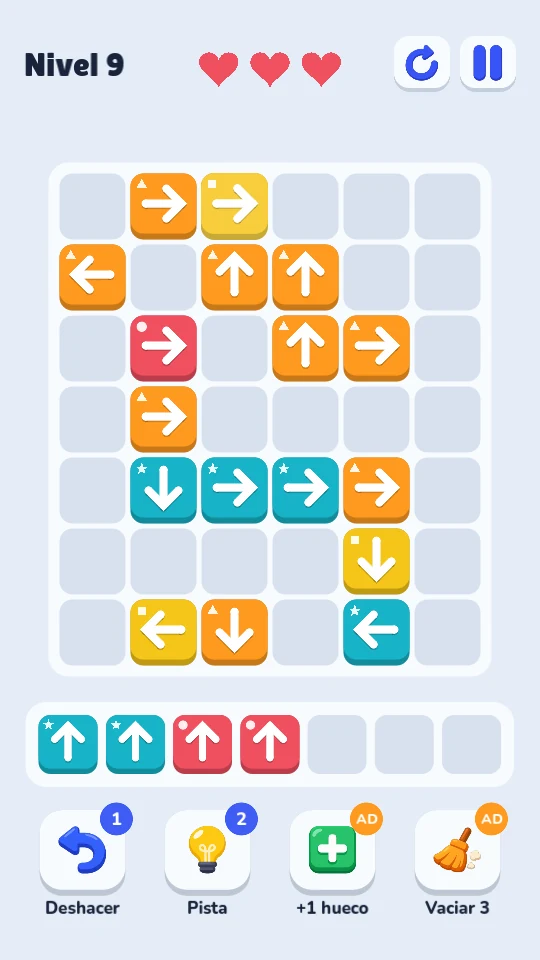
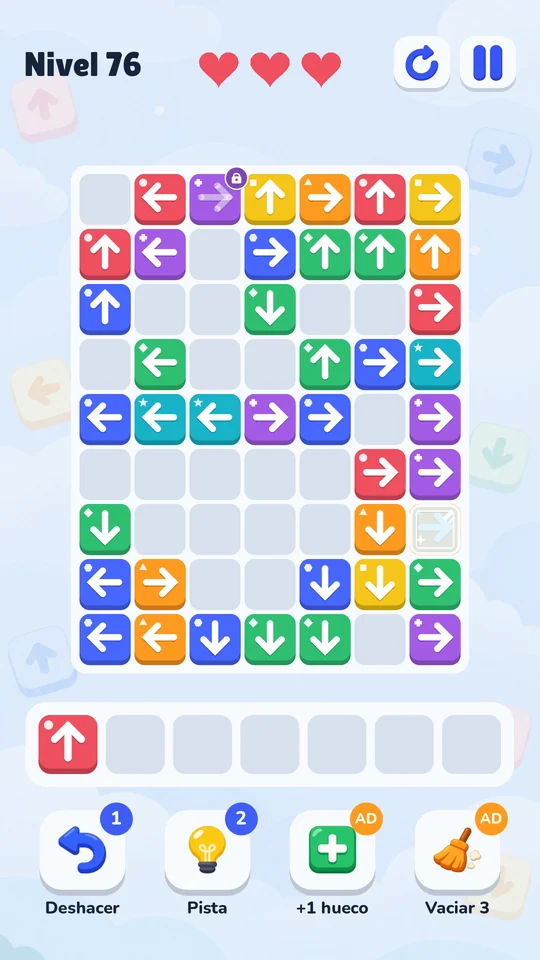
Flechazo 1.0: ya disponible en Google Play
- Página de Flechazo: estado «Ya disponible · versión 1.0», botón de Google Play en el
  idioma del visitante, lista de lo que trae la 1.0 y 4 capturas nuevas por idioma
  (partida con hielo y candado, contrarreloj, logros y cofre).
- Portada: Flechazo como juego publicado con su enlace a Google Play, 3 juegos en
  Google Play, 1000 niveles y entrada nueva en el diario.

diff --git a/index.html b/index.html
@@ -200,8 +200,8 @@
 
   <div class="wrap">
     <div class="stats">
-      <div><b>2</b><span data-i18n="stat_live">games on Google Play</span></div>
-      <div><b>1</b><span data-i18n="stat_next">on the way: Flechazo</span></div>
+      <div><b>3</b><span data-i18n="stat_live">games on Google Play</span></div>
+      <div><b>1000</b><span data-i18n="stat_next">levels in Flechazo</span></div>
       <div><b>4</b><span data-i18n="stat_langs">languages in every game</span></div>
       <div><b>0</b><span data-i18n="stat_accounts">accounts to create</span></div>
     </div>
@@ -241,16 +241,17 @@
         </article>
 
         <article class="game blue">
-          <span class="badge dev" data-i18n="badge_dev">In development</span>
+          <span class="badge" data-i18n="badge_live">Out now</span>
           <a class="cover" id="link-flechazo" href="flechazo/"><img src="flechazo/hero.webp" width="1600" height="800" alt=""></a>
           <div class="gbody">
             <img class="gicon" src="flechazo/icon.webp" width="84" height="84" alt="">
             <h3>Flechazo</h3>
             <p data-i18n="flechazo_pitch">Free the arrows in the right order and match them in threes by colour before the tray fills up.</p>
             <div class="chips" data-i18n-chips="flechazo_chips"></div>
-            <p class="note" data-i18n="flechazo_note">Closed test on Google Play very soon.</p>
+            <p class="note" data-i18n="flechazo_note">Version 1.0: Time Attack mode, 294 achievements and 1000 levels.</p>
             <div class="gactions">
               <a class="btn small" id="more-flechazo" href="flechazo/" data-i18n="btn_see">See the game</a>
+              <a class="btn small ghost" href="https://play.google.com/store/apps/details?id=com.flechazo.game">Google Play</a>
             </div>
           </div>
         </article>
@@ -278,6 +279,7 @@
       <h2 data-i18n="log_title">Dev log</h2>
       <p class="intro" data-i18n="log_intro">What we've been up to lately.</p>
       <ol class="log">
+        <li><time datetime="2026-10-17"></time><p data-i18n="log0"></p></li>
         <li><time datetime="2026-10-16"></time><p data-i18n="log1"></p></li>
         <li><time datetime="2026-10-13"></time><p data-i18n="log2"></p></li>
         <li><time datetime="2026-10-12"></time><p data-i18n="log3"></p></li>
@@ -314,7 +316,7 @@
       title: "Juegos pequeños que <mark>dan para mucho</mark>.",
       lead: "Hacemos juegos para Android que se entienden en segundos y se juegan en ratos cortos: en el bus, en una cola o antes de dormir. Sin cuentas, sin registros y sin conexión. Gratis, con anuncios pensados para no estorbar.",
       cta_games: "Ver los juegos", cta_contact: "Escríbenos",
-      stat_live: "juegos en Google Play", stat_next: "en camino: Flechazo", stat_langs: "idiomas en cada juego", stat_accounts: "cuentas que crear",
+      stat_live: "juegos en Google Play", stat_next: "niveles en Flechazo", stat_langs: "idiomas en cada juego", stat_accounts: "cuentas que crear",
       games_title: "Nuestros juegos",
       games_intro: "Tres juegos muy distintos con la misma idea: que puedas jugar cinco minutos o una hora y siempre te apetezca volver.",
       badge_live: "Ya disponible", badge_dev: "En desarrollo", btn_see: "Ver el juego",
@@ -324,8 +326,8 @@
       abyss_pitch: "Lanza cientos de bolas y rompe bloques sin fin. Mejora, fusiona y desciende.",
       abyss_chips: ["Rompebloques", "Roguelite", "Incremental"],
       flechazo_pitch: "Saca las flechas en el orden correcto y júntalas de tres en tres por color antes de que se llene la bandeja.",
-      flechazo_chips: ["Puzzle", "Cientos de niveles", "Para daltónicos"],
-      flechazo_note: "Prueba cerrada en Google Play muy pronto.",
+      flechazo_chips: ["Puzzle", "1000 niveles", "Contrarreloj"],
+      flechazo_note: "Versión 1.0: modo contrarreloj, 294 logros y 1000 niveles.",
       how_title: "Cómo hacemos los juegos",
       how_intro: "Cuatro promesas que cumple cada juego, del primer prototipo a la última actualización.",
       how1_t: "Anuncios que no estorban",
@@ -337,6 +339,7 @@
       how4_t: "Para todo el mundo",
       how4_p: "Español, inglés, francés y alemán desde el primer día, y opciones como los símbolos para daltónicos activadas por defecto.",
       log_title: "Diario de desarrollo", log_intro: "En qué andamos últimamente.",
+      log0: "Flechazo 1.0 llega a Google Play: 1000 niveles, modo contrarreloj, 294 logros, cofres de estrellas y nuevas mecánicas de hielo y candados.",
       log1: "Flechazo ya tiene anuncios con consentimiento RGPD, pausa con ajustes y cuatro idiomas. Lo siguiente: la prueba cerrada en Google Play.",
       log2: "Abismo ya está disponible en Google Play.",
       log3: "Las páginas de Abismo y Orbital Overload, ahora en cuatro idiomas y con capturas nuevas.",
@@ -351,7 +354,7 @@
       title: "Small games, <mark>long-lasting fun</mark>.",
       lead: "We make Android games you understand in seconds and play in short breaks: on the bus, in a queue or before bed. No accounts, no sign-ups, no connection needed. Free, with ads designed to stay out of your way.",
       cta_games: "See the games", cta_contact: "Get in touch",
-      stat_live: "games on Google Play", stat_next: "on the way: Flechazo", stat_langs: "languages in every game", stat_accounts: "accounts to create",
+      stat_live: "games on Google Play", stat_next: "levels in Flechazo", stat_langs: "languages in every game", stat_accounts: "accounts to create",
       games_title: "Our games",
       games_intro: "Three very different games built on the same idea: play for five minutes or an hour and always want to come back.",
       badge_live: "Out now", badge_dev: "In development", btn_see: "See the game",
@@ -361,8 +364,8 @@
       abyss_pitch: "Launch hundreds of balls, smash blocks and dive forever. Upgrade, fuse, descend.",
       abyss_chips: ["Brick breaker", "Roguelite", "Incremental"],
       flechazo_pitch: "Free the arrows in the right order and match them in threes by colour before the tray fills up.",
-      flechazo_chips: ["Puzzle", "Hundreds of levels", "Colorblind-friendly"],
-      flechazo_note: "Closed test on Google Play very soon.",
+      flechazo_chips: ["Puzzle", "1000 levels", "Time Attack"],
+      flechazo_note: "Version 1.0: Time Attack mode, 294 achievements and 1000 levels.",
       how_title: "How we make our games",
       how_intro: "Four promises every game keeps, from the first prototype to the last update.",
       how1_t: "Ads that stay out of the way",
@@ -374,6 +377,7 @@
       how4_t: "For everyone",
       how4_p: "Spanish, English, French and German from day one, plus options like colorblind symbols switched on by default.",
       log_title: "Dev log", log_intro: "What we've been up to lately.",
+      log0: "Flechazo 1.0 lands on Google Play: 1000 levels, Time Attack mode, 294 achievements, star chests and new ice and lock mechanics.",
       log1: "Flechazo now has ads with GDPR consent, a pause menu with settings and four languages. Next up: the closed test on Google Play.",
       log2: "Bounce Abyss is now available on Google Play.",
       log3: "The Bounce Abyss and Orbital Overload pages, now in four languages with new screenshots.",
@@ -388,7 +392,7 @@
       title: "Des petits jeux qui <mark>durent longtemps</mark>.",
       lead: "Nous faisons des jeux Android qu'on comprend en quelques secondes et qu'on joue par petites pauses : dans le bus, dans une file d'attente ou avant de dormir. Sans compte, sans inscription, sans connexion. Gratuits, avec des publicités pensées pour ne pas gêner.",
       cta_games: "Voir les jeux", cta_contact: "Nous écrire",
-      stat_live: "jeux sur Google Play", stat_next: "en route : Flechazo", stat_langs: "langues dans chaque jeu", stat_accounts: "compte à créer",
+      stat_live: "jeux sur Google Play", stat_next: "niveaux dans Flechazo", stat_langs: "langues dans chaque jeu", stat_accounts: "compte à créer",
       games_title: "Nos jeux",
       games_intro: "Trois jeux très différents avec la même idée : jouer cinq minutes ou une heure et toujours avoir envie d'y revenir.",
       badge_live: "Disponible", badge_dev: "En développement", btn_see: "Voir le jeu",
@@ -398,8 +402,8 @@
       abyss_pitch: "Lance des centaines de balles, casse des blocs. Améliore, fusionne, descends.",
       abyss_chips: ["Casse-briques", "Roguelite", "Incrémental"],
       flechazo_pitch: "Libère les flèches dans le bon ordre et réunis-les par trois de la même couleur avant que le bac ne déborde.",
-      flechazo_chips: ["Puzzle", "Des centaines de niveaux", "Pour daltoniens"],
-      flechazo_note: "Test fermé sur Google Play très bientôt.",
+      flechazo_chips: ["Puzzle", "1000 niveaux", "Contre-la-montre"],
+      flechazo_note: "Version 1.0 : mode contre-la-montre, 294 succès et 1000 niveaux.",
       how_title: "Comment nous faisons nos jeux",
       how_intro: "Quatre promesses que chaque jeu tient, du premier prototype à la dernière mise à jour.",
       how1_t: "Des pubs qui ne gênent pas",
@@ -411,6 +415,7 @@
       how4_t: "Pour tout le monde",
       how4_p: "Espagnol, anglais, français et allemand dès le premier jour, et des options comme les symboles pour daltoniens activées par défaut.",
       log_title: "Journal de développement", log_intro: "Ce qui nous occupe ces derniers temps.",
+      log0: "Flechazo 1.0 arrive sur Google Play : 1000 niveaux, mode contre-la-montre, 294 succès, coffres d'étoiles et nouvelles mécaniques de glace et de cadenas.",
       log1: "Flechazo a maintenant ses publicités avec consentement RGPD, un menu pause avec réglages et quatre langues. Prochaine étape : le test fermé sur Google Play.",
       log2: "Bounce Abyss est disponible sur Google Play.",
       log3: "Les pages de Bounce Abyss et d'Orbital Overload, désormais en quatre langues avec de nouvelles captures.",
@@ -425,7 +430,7 @@
       title: "Kleine Spiele, <mark>großer Spielspaß</mark>.",
       lead: "Wir machen Android-Spiele, die man in Sekunden versteht und in kurzen Pausen spielt: im Bus, in der Warteschlange oder vor dem Schlafen. Ohne Konto, ohne Anmeldung, ohne Internet. Kostenlos, mit Werbung, die nicht stört.",
       cta_games: "Zu den Spielen", cta_contact: "Schreib uns",
-      stat_live: "Spiele bei Google Play", stat_next: "unterwegs: Flechazo", stat_langs: "Sprachen in jedem Spiel", stat_accounts: "Konten anzulegen",
+      stat_live: "Spiele bei Google Play", stat_next: "Level in Flechazo", stat_langs: "Sprachen in jedem Spiel", stat_accounts: "Konten anzulegen",
       games_title: "Unsere Spiele",
       games_intro: "Drei sehr unterschiedliche Spiele mit derselben Idee: fünf Minuten oder eine Stunde spielen und immer wieder zurückkommen wollen.",
       badge_live: "Erhältlich", badge_dev: "In Entwicklung", btn_see: "Zum Spiel",
@@ -435,8 +440,8 @@
       abyss_pitch: "Hunderte Kugeln, endlose Blöcke. Verbessern, fusionieren, immer tiefer hinab.",
       abyss_chips: ["Blockbrecher", "Roguelite", "Inkrementell"],
       flechazo_pitch: "Befreie die Pfeile in der richtigen Reihenfolge und sammle sie zu dritt nach Farbe, bevor die Ablage voll ist.",
-      flechazo_chips: ["Puzzle", "Hunderte Level", "Farbenblind-freundlich"],
-      flechazo_note: "Geschlossener Test bei Google Play in Kürze.",
+      flechazo_chips: ["Puzzle", "1000 Level", "Zeitrennen"],
+      flechazo_note: "Version 1.0: Zeitrennen-Modus, 294 Erfolge und 1000 Level.",
       how_title: "Wie wir unsere Spiele machen",
       how_intro: "Vier Versprechen, die jedes Spiel hält, vom ersten Prototyp bis zum letzten Update.",
       how1_t: "Werbung, die nicht stört",
@@ -448,6 +453,7 @@
       how4_t: "Für alle",
       how4_p: "Spanisch, Englisch, Französisch und Deutsch vom ersten Tag an, dazu Optionen wie Symbole für Farbenblinde, standardmäßig aktiv.",
       log_title: "Entwicklungstagebuch", log_intro: "Woran wir zuletzt gearbeitet haben.",
+      log0: "Flechazo 1.0 ist bei Google Play: 1000 Level, Zeitrennen-Modus, 294 Erfolge, Sternentruhen und neue Eis- und Schloss-Mechaniken.",
       log1: "Flechazo hat jetzt Werbung mit DSGVO-Einwilligung, ein Pausenmenü mit Einstellungen und vier Sprachen. Als Nächstes: der geschlossene Test bei Google Play.",
       log2: "Bounce Abyss ist jetzt bei Google Play erhältlich.",
       log3: "Die Seiten von Bounce Abyss und Orbital Overload jetzt in vier Sprachen und mit neuen Screenshots.",

diff --git a/flechazo/index.html b/flechazo/index.html
@@ -4,7 +4,7 @@
 <meta charset="utf-8">
 <meta name="viewport" content="width=device-width, initial-scale=1">
 <title>Flechazo: Arrow Jam Puzzle</title>
-<meta name="description" content="Flechazo: free the arrows in the right order and match them in threes by colour before the tray fills up. Coming soon to Google Play.">
+<meta name="description" content="Flechazo: free the arrows in the right order and match them in threes by colour before the tray fills up. 1000 levels, Time Attack mode and 294 achievements. Free on Google Play.">
 <meta property="og:title" content="Flechazo: Arrow Jam Puzzle">
 <meta property="og:image" content="https://xtarvader.github.io/flechazo/hero.webp">
 <meta name="theme-color" content="#F3ECDF">
@@ -57,8 +57,9 @@
     </div>
   </div>
 
-  <span class="status" data-i18n="status">In development · closed test soon</span>
+  <span class="status" data-i18n="status">Out now · version 1.0</span>
   <p class="lead" data-i18n="lead"></p>
+  <p><a class="btn" id="play" href="https://play.google.com/store/apps/details?id=com.flechazo.game"><svg viewBox="0 0 24 24" aria-hidden="true"><path fill="currentColor" d="M7 4.5v15l12-7.5z"/></svg><span data-i18n="play">Get it on Google Play</span></a></p>
 
   <h2 data-i18n="how_title">How to play</h2>
   <div class="steps">
@@ -71,6 +72,8 @@
   <div class="shot-grid">
     <img id="shot1" src="shots/en/01.webp" width="540" height="960" alt="">
     <img id="shot2" src="shots/en/02.webp" width="540" height="960" alt="">
+    <img id="shot3" src="shots/en/03.webp" width="540" height="960" alt="" loading="lazy">
+    <img id="shot4" src="shots/en/04.webp" width="540" height="960" alt="" loading="lazy">
   </div>
 
   <h2 data-i18n="feat_title">What's inside</h2>
@@ -88,47 +91,47 @@
 (function () {
   var T = {
     es: {
-      doc: "Flechazo: Puzzle de Flechas", tag: "Puzzle de flechas", status: "En desarrollo · prueba cerrada muy pronto",
+      doc: "Flechazo: Puzzle de Flechas", tag: "Puzzle de flechas", status: "Ya disponible · versión 1.0", play: "Disponible en Google Play",
       lead: "Saca las flechas del tablero en el orden correcto y júntalas de tres en tres por color antes de que se llene la bandeja. Un toque, una flecha: se entiende en segundos, pero pensar antes de tocar marca la diferencia.",
       how_title: "Cómo se juega",
       s1_t: "Toca una flecha", s1_p: "Si su camino hasta el borde está libre, sale disparada. Si choca con otra, rebota y pierdes una vida.",
       s2_t: "Junta tres iguales", s2_p: "Cada flecha que sale ocupa un hueco de la bandeja. Tres del mismo color desaparecen y dejan sitio.",
       s3_t: "No llenes la bandeja", s3_p: "Tienes siete huecos. Elige el orden con cabeza: si la bandeja se llena, se acabó el nivel.",
       shots_title: "Capturas", feat_title: "Qué trae",
-      features: ["Cientos de niveles, todos con solución", "Pistas y deshacer", "Símbolos para daltónicos", "Sin conexión", "Sin cuentas", "Español, inglés, francés y alemán"],
+      features: ["1000 niveles, todos con solución", "Modo Contrarreloj", "294 logros con insignias", "Puzzle del día", "Cofres de estrellas", "9 temas y 5 estilos de ficha", "Hielo, candados, flechas largas y giratorias", "Pistas y deshacer", "Símbolos para daltónicos", "Sin conexión", "Sin cuentas", "Español, inglés, francés y alemán"],
       privacy: "Política de privacidad", contact: "Contacto", more: "Más juegos"
     },
     en: {
-      doc: "Flechazo: Arrow Jam Puzzle", tag: "Arrow Jam Puzzle", status: "In development · closed test very soon",
+      doc: "Flechazo: Arrow Jam Puzzle", tag: "Arrow Jam Puzzle", status: "Out now · version 1.0", play: "Get it on Google Play",
       lead: "Free the arrows from the board in the right order and match them in threes by colour before the tray fills up. One tap, one arrow: you get it in seconds, but thinking before you tap makes all the difference.",
       how_title: "How to play",
       s1_t: "Tap an arrow", s1_p: "If its path to the edge is clear, it shoots out. If it hits another arrow, it bounces back and you lose a life.",
       s2_t: "Match three", s2_p: "Every arrow that leaves takes a slot in the tray. Three of the same colour vanish and free up space.",
       s3_t: "Don't fill the tray", s3_p: "You have seven slots. Choose the order wisely: if the tray fills up, the level is over.",
       shots_title: "Screenshots", feat_title: "What's inside",
-      features: ["Hundreds of levels, all solvable", "Hints and undo", "Colorblind symbols", "Plays offline", "No accounts", "English, Spanish, French and German"],
+      features: ["1000 levels, all solvable", "Time Attack mode", "294 achievements with badges", "Daily puzzle", "Star chests", "9 themes and 5 tile styles", "Ice, locks, long and spinning arrows", "Hints and undo", "Colorblind symbols", "Plays offline", "No accounts", "English, Spanish, French and German"],
       privacy: "Privacy policy", contact: "Contact", more: "More games"
     },
     fr: {
-      doc: "Flechazo : puzzle de flèches", tag: "Puzzle de flèches", status: "En développement · test fermé très bientôt",
+      doc: "Flechazo : puzzle de flèches", tag: "Puzzle de flèches", status: "Disponible · version 1.0", play: "Disponible sur Google Play",
       lead: "Fais sortir les flèches du plateau dans le bon ordre et réunis-les par trois de la même couleur avant que le bac ne déborde. Une touche, une flèche : on comprend en quelques secondes, mais réfléchir avant de toucher fait toute la différence.",
       how_title: "Comment jouer",
       s1_t: "Touche une flèche", s1_p: "Si son chemin jusqu'au bord est libre, elle file. Si elle percute une autre flèche, elle rebondit et tu perds une vie.",
       s2_t: "Réunis-en trois", s2_p: "Chaque flèche qui sort prend une case du bac. Trois de la même couleur disparaissent et libèrent de la place.",
       s3_t: "Ne remplis pas le bac", s3_p: "Tu as sept cases. Choisis bien l'ordre : si le bac est plein, le niveau est perdu.",
       shots_title: "Captures d'écran", feat_title: "Au programme",
-      features: ["Des centaines de niveaux, tous solubles", "Indices et annulation", "Symboles pour daltoniens", "Hors ligne", "Sans compte", "Français, anglais, espagnol et allemand"],
+      features: ["1000 niveaux, tous solubles", "Mode Contre-la-montre", "294 succès avec badges", "Puzzle du jour", "Coffres d'étoiles", "9 thèmes et 5 styles de pièces", "Glace, cadenas, flèches longues et tournantes", "Indices et annulation", "Symboles pour daltoniens", "Hors ligne", "Sans compte", "Français, anglais, espagnol et allemand"],
       privacy: "Politique de confidentialité", contact: "Contact", more: "Plus de jeux"
     },
     de: {
-      doc: "Flechazo: Pfeil-Puzzle", tag: "Pfeil-Puzzle", status: "In Entwicklung · geschlossener Test in Kürze",
+      doc: "Flechazo: Pfeil-Puzzle", tag: "Pfeil-Puzzle", status: "Erhältlich · Version 1.0", play: "Jetzt bei Google Play",
       lead: "Befreie die Pfeile in der richtigen Reihenfolge vom Spielfeld und sammle sie zu dritt nach Farbe, bevor die Ablage voll ist. Ein Tipp, ein Pfeil: In Sekunden verstanden, aber wer vorher nachdenkt, gewinnt.",
       how_title: "So wird gespielt",
       s1_t: "Tippe auf einen Pfeil", s1_p: "Ist sein Weg zum Rand frei, fliegt er hinaus. Stößt er an einen anderen Pfeil, prallt er zurück und du verlierst ein Leben.",
       s2_t: "Sammle drei gleiche", s2_p: "Jeder Pfeil, der hinausfliegt, belegt einen Platz in der Ablage. Drei gleicher Farbe verschwinden und machen Platz.",
       s3_t: "Lass die Ablage nicht volllaufen", s3_p: "Du hast sieben Plätze. Wähle die Reihenfolge mit Bedacht: Ist die Ablage voll, ist das Level verloren.",
       shots_title: "Screenshots", feat_title: "Das steckt drin",
-      features: ["Hunderte Level, alle lösbar", "Tipps und Rückgängig", "Symbole für Farbenblinde", "Offline spielbar", "Kein Konto nötig", "Deutsch, Englisch, Französisch und Spanisch"],
+      features: ["1000 Level, alle lösbar", "Zeitrennen-Modus", "294 Erfolge mit Abzeichen", "Tagesrätsel", "Sternentruhen", "9 Themen und 5 Steinstile", "Eis, Schlösser, lange und drehende Pfeile", "Tipps und Rückgängig", "Symbole für Farbenblinde", "Offline spielbar", "Kein Konto nötig", "Deutsch, Englisch, Französisch und Spanisch"],
       privacy: "Datenschutzerklärung", contact: "Kontakt", more: "Weitere Spiele"
     }
   };
@@ -141,8 +144,10 @@
     var list = document.getElementById("features");
     list.textContent = "";
     t.features.forEach(function (f) { var li = document.createElement("li"); li.textContent = f; list.appendChild(li); });
-    document.getElementById("shot1").src = "shots/" + lang + "/01.webp";
-    document.getElementById("shot2").src = "shots/" + lang + "/02.webp";
+    ["shot1", "shot2", "shot3", "shot4"].forEach(function (id, i) {
+      document.getElementById(id).src = "shots/" + lang + "/0" + (i + 1) + ".webp";
+    });
+    document.getElementById("play").href = "https://play.google.com/store/apps/details?id=com.flechazo.game&hl=" + lang;
     document.getElementById("back").href = "../?lang=" + lang;
     document.getElementById("more").href = "../?lang=" + lang;
     document.getElementById("privacy").href = "privacy.html?lang=" + lang;
